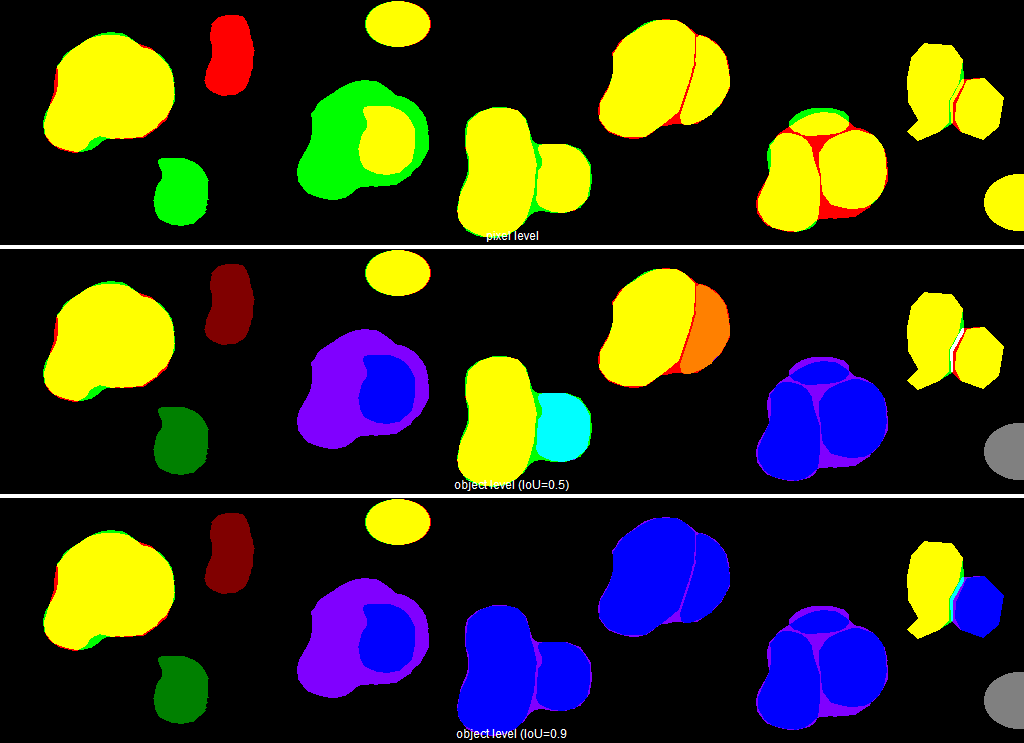
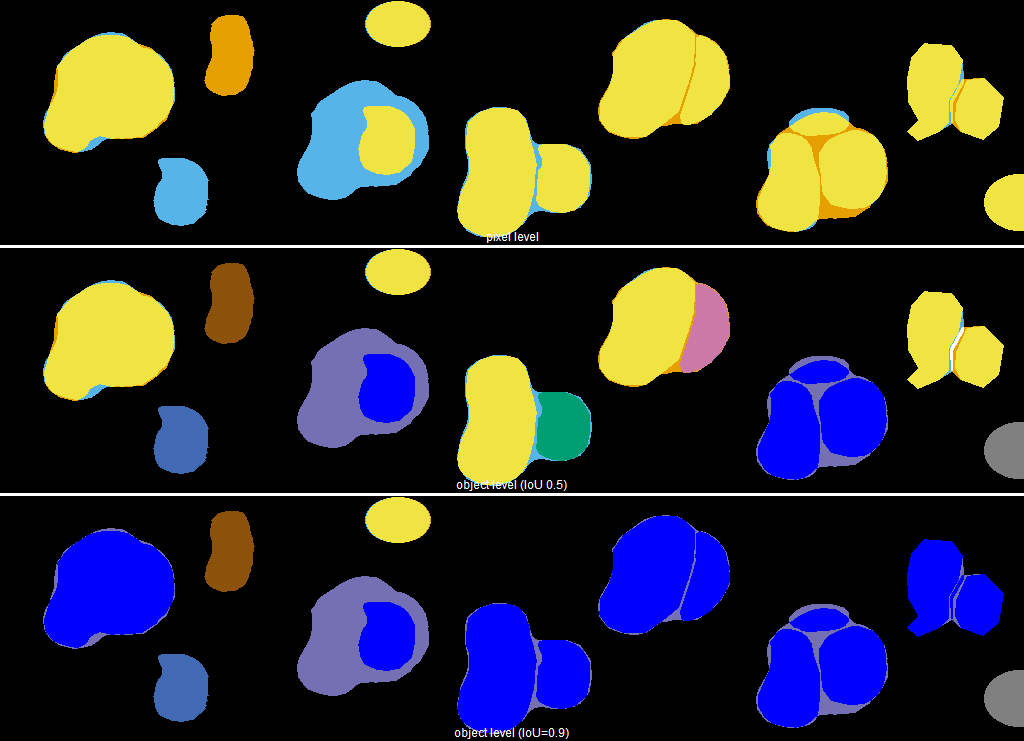
adapted output images with consideration for color-blind people

diff --git a/src/main/java/fr/curie/mic/IoUAnalysis.java b/src/main/java/fr/curie/mic/IoUAnalysis.java
@@ -217,10 +217,109 @@ public class IoUAnalysis {
 
         return new LUT(r, g, b);
     }
+    /**
+     * Builds a colorblind-friendly MiC Look-Up Table (LUT) for object-based
+     * comparison visualization.
+     *
+     * Maps label indices to RGB values representing the various relationships
+     * between ground truth and test objects.
+     *
+     * Color scheme:
+     * - TP (index 1): Yellow - true positive object validated by the IoU threshold.
+     * - TP_OVER (index 2): Orange - true positive where the test object is larger
+     *   than the corresponding ground truth object.
+     * - TP_UNDER (index 3): Light Blue - true positive where the test object is
+     *   smaller than the corresponding ground truth object.
+     * - FUSED (index 4): Magenta - false negative caused by the fusion of several
+     *   ground truth objects into a single test object.
+     * - SPLIT (index 5): Turquoise - false positive caused by the splitting of a
+     *   ground truth object into multiple test objects.
+     * - UNDER_IOU (index 6): Blue - overlapping region between corresponding
+     *   objects that do not satisfy the IoU threshold.
+     * - UNDER_IOU_EXT (index 7): Purple - non-overlapping region of corresponding
+     *   objects that do not satisfy the IoU threshold.
+     * - FP (index 8): Brown - false positive object present only in the test mask.
+     * - FN (index 9): Royal Blue - false negative object present only in the
+     *   ground truth mask.
+     * - NOT_ANALYZED (index 10): Grey - object excluded from analysis
+     *   (e.g. border or size filtering).
+     * - SECONDARY_OVERLAP (index 11): White - secondary overlap between already
+     *   validated object pairs.
+     *
+     * The palette uses warm colors for over-segmentation related errors and cool
+     * colors for under-segmentation related errors. Within each family, luminance
+     * reflects error severity, improving readability and accessibility for users
+     * with common forms of color vision deficiency.
+     *
+     * @return ImageJ LUT object for color mapping.
+     */
+    public static LUT getMiCLUT_colorblind() {
+        byte[] r = new byte[256];
+        byte[] g = new byte[256];
+        byte[] b = new byte[256];
+
+        // TP (yellow)
+        r[1] = (byte)240;
+        g[1] = (byte)228;
+        b[1] = (byte)66;
+
+        // TP_OVER (orange)
+        r[2] = (byte)230;
+        g[2] = (byte)159;
+        b[2] = (byte)0;
+
+        // TP_UNDER (light blue)
+        r[3] = (byte)86;
+        g[3] = (byte)180;
+        b[3] = (byte)233;
+
+        // FUSED / MERGE (magenta)
+        r[4] = (byte)204;
+        g[4] = (byte)121;
+        b[4] = (byte)167;
+
+        // SPLIT (turquoise)
+        r[5] = (byte)0;
+        g[5] = (byte)158;
+        b[5] = (byte)115;
+
+        // UNDER_IOU common area (blue)
+        r[6] = (byte)0;
+        g[6] = (byte)0;
+        b[6] = (byte)240;
+
+        // UNDER_IOU_EXT divergent area (purple)
+        r[7] = (byte)117;
+        g[7] = (byte)112;
+        b[7] = (byte)179;
+
+        // FP (brown)
+        r[8] = (byte)140;
+        g[8] = (byte)81;
+        b[8] = (byte)10;
+
+        // FN (royal blue)
+        r[9] = (byte)65;
+        g[9] = (byte)105;
+        b[9] = (byte)180;
+
+        // NOT_ANALYZED (grey)
+        r[10] = (byte)128;
+        g[10] = (byte)128;
+        b[10] = (byte)128;
+
+        // SECONDARY_OVERLAP (white)
+        r[11] = (byte)255;
+        g[11] = (byte)255;
+        b[11] = (byte)255;
+
+        return new LUT(r, g, b);
+    }
+
 
     /**
      * Returns the IoU matrix.
-     * 
+     *
      * @return ImageProcessor containing IoU values; iou[i][j] = IoU between truth object i and test object j
      */
     public ImageProcessor getIoU() {

diff --git a/src/main/java/fr/curie/mic/Mask_Instant_Comparator.java b/src/main/java/fr/curie/mic/Mask_Instant_Comparator.java
@@ -735,7 +735,7 @@ public class Mask_Instant_Comparator implements PlugIn {
 
     private void createCompositeStack() {
         IJ.log("create composite");
-        lutComposite = IoUAnalysis.getMiCLUT();
+        lutComposite = IoUAnalysis.getMiCLUT_colorblind();
 
         int nbIndexes = ((pixelObjectMethod) ? (int) Math.round((overlapMax - overlapMin) / overlapInc + 1) : 0);
         IJ.log("nbIndexes:" + nbIndexes);
@@ -873,23 +873,38 @@ public class Mask_Instant_Comparator implements PlugIn {
         }
     }
 
-
     private void addCompositePixels(ImagePlus imp, int index, int channel, int time, int slice) {
-        IJ.log("add composite from pixels");
         truthMaskIP.setPosition(channel + 1, slice, time + 1);
         testMaskIP.setPosition(channel + 1, slice, time + 1);
-        ByteProcessor truthMaskBinary = getMaskBinary(truthMaskIP);
-        ByteProcessor testMaskBinary = getMaskBinary(testMaskIP);
-        ColorProcessor col = new ColorProcessor(truthMaskIP.getWidth(), truthMaskIP.getHeight());
-        col.setChannel(1, testMaskBinary);
-        col.setChannel(2, truthMaskBinary);
-        ImagePlus rgb = new ImagePlus("rgb", col);
-        ImageConverter converter = new ImageConverter(rgb);
-        converter.convertRGBtoIndexedColor(256);
-        imp.getImageStack().getProcessor(imp.getStackIndex(index, slice, time +1)).copyBits(rgb.getProcessor(), 0, 0, Blitter.COPY);
+
+        ByteProcessor truth = getMaskBinary(truthMaskIP);
+        ByteProcessor test = getMaskBinary(testMaskIP);
+
+        ByteProcessor result = new ByteProcessor(truth.getWidth(), truth.getHeight());
+
+        for (int y = 0; y < truth.getHeight(); y++) {
+            for (int x = 0; x < truth.getWidth(); x++) {
+                boolean gt = truth.get(x, y) != 0;
+                boolean ts = test.get(x, y) != 0;
+
+                if (!gt && !ts) {
+                    result.set(x, y, 0);      // fond
+                } else if (gt && !ts) {
+                    result.set(x, y, 3);      // underestimated or FN (light blue)
+                } else if (!gt && ts) {
+                    result.set(x, y, 2);      // overestimated or FP (orange)
+                } else {
+                    result.set(x, y, 1);      // TP (yellow)
+                }
+            }
+        }
+
+        imp.getImageStack().getProcessor(imp.getStackIndex(index, slice, time + 1))
+                .copyBits(result, 0, 0, Blitter.COPY);
 
         CompositeImage ci = (CompositeImage) imp;
-        ci.setChannelLut(rgb.getProcessor().getLut(), index);
+        ci.setChannelLut(IoUAnalysis.getMiCLUT_colorblind(), index);
+
         imp.resetDisplayRange();
     }
 
@@ -1349,6 +1364,7 @@ public class Mask_Instant_Comparator implements PlugIn {
 
             if (compositeImage != null) {
                 for (ImagePlus ip : compositeImage) {
+                    if(ip.getNSlices()>1) ip.setSlice(2);
                     ip.show();
                 }
             }

diff --git a/src/main/java/fr/curie/mic/MaskInstantComparator3D.java b/src/main/java/fr/curie/mic/MaskInstantComparator3D.java
@@ -130,7 +130,7 @@ public class MaskInstantComparator3D implements PlugIn {
             pixelObjectResultsTable = new ResultsTable();
         }
 
-        if(showComposite) lutcomposite = IoUAnalysis.getMiCLUT();
+        if(showComposite) lutcomposite = IoUAnalysis.getMiCLUT_colorblind();
         analysis();
 
         resultsTable.show("Mask comparison results");
@@ -445,7 +445,7 @@ public class MaskInstantComparator3D implements PlugIn {
         int nFrames = originalTruth.getNFrames();
 
         if (lutcomposite == null) {
-            lutcomposite = IoUAnalysis.getMiCLUT();
+            lutcomposite = IoUAnalysis.getMiCLUT_colorblind();
         }
 
         for (int originalChannel = 1; originalChannel <= nOriginalChannels; originalChannel++) {

diff --git a/README.md b/README.md
@@ -93,28 +93,42 @@ Depending on the choice of parameters, the outputs consist of
 ![MiC, output image](ressources/MIC_output_image2.png)
 This stack of images is displayed when the option "Show composite images" is selected. The first slice is the pixel level superposition if the option "Pixel" is selected. The second is the Object level (IoU = 0.5) superposition if the option "Object (IoU=0.5)" is selected. The next slices correspond to object level  with varying IoU thresholds, when the corresponding option is selected. The IoU thresholds used are displayed in the slice label.
 
-The mask to test is superimposed to the ground truth with a color code
-##### for pixel level
- *  ![MiC, dialog window](ressources/green.png) **green** for GT (FN)
- * ![MiC, dialog window](ressources/red.png) **red** for mask (FP)
- * ![MiC, dialog window](ressources/yellow.png) **yellow** where the two masks overlaps (TP)
-  
-<BR>
+The mask to test is superimposed to the ground truth with a color code in an indexed color image (bellow the value of the index is given with the color code)
 
-##### for object level (the IoU threshold is displayed in the slice label)	
- 0. ![MiC, dialog window](ressources/black.png) **black**: pixels belonging to no object.
- 1. ![MiC, dialog window](ressources/yellow.png) **yellow** (TP): these are objects common to both masks (GT, test) and validated by the given IoU threshold. 
- 2. ![MiC, dialog window](ressources/red.png) **red** (TP): these are true positives with objects that are overestimated (larger in the test mask).
- 3. ![MiC, dialog window](ressources/green.png) **green** (TP): these are true positives with objects that are underestimated (smaller in the test mask).
- 4. ![MiC, dialog window](ressources/orange.png) **orange** (FN): These are false negatives corresponding to the merging (fusion) of objects in the GT mask into a single object in the test mask, one of whose objects is validated by the given IoU threshold. One of the objects in the GT mask will be yellow, while the others will be orange.
- 5. ![MiC, dialog window](ressources/cyan.png) **cyan** (FP): These are False positives where an object in the GT mask is split into multiple objects in the test mask. One object in the test mask will be yellow or cyan (depending on IoU validation), while others will be cyan.
- 6. ![MiC, dialog window](ressources/blue.png) **blue** (FP and FN): These are Objects common to both masks but not validated by the IoU threshold. The blue color covers the common area.
- 7. ![MiC, dialog window](ressources/purple.png) **purple** (FP or FN): These are Objects common to both masks but not validated by the IoU threshold. The purple color covers the diverging area.
- 8. ![MiC, dialog window](ressources/darkred.png) **dark red** (FP): These are false positives, test mask objects that do not match any object in GT mask.
- 9. ![MiC, dialog window](ressources/darkgreen.png) **dark green** (FN): these are false negatives, objects in the GT mask that don't match any object in test mask.
- 10. ![MiC, dialog window](ressources/grey.png) **grey**: these are objects eliminated with respect of distance to border parameter.
- 11. ![MiC, dialog window](ressources/white.png) **white**: these are objects already validated as true positives but with a secondary overlap with another object. The white color covers the overlapping area.
 
+##### Pixel level
+
+The test mask is superimposed on the ground truth mask.
+0. <span style="display:inline-block;width:12px;height:12px;background:#000000;border:1px solid #666;"></span> **black**: pixels belonging to background.
+1. <span style="display:inline-block;width:12px;height:12px;background:#F0E442;border:1px solid #666;"></span> **yellow**: overlapping pixels between the two masks (TP).
+2. <span style="display:inline-block;width:12px;height:12px;background:#E69F00;border:1px solid #666;"></span> **orange**: pixels present only in the test mask (FP).
+3. <span style="display:inline-block;width:12px;height:12px;background:#56B4E9;border:1px solid #666;"></span> **light blue**: pixels present only in the ground truth mask (FN).
+
+##### Object level
+
+0. <span style="display:inline-block;width:12px;height:12px;background:#000000;border:1px solid #666;"></span> **black**: pixels belonging to no object.
+
+1. <span style="display:inline-block;width:12px;height:12px;background:#F0E442;border:1px solid #666;"></span> **yellow** (**TP**): objects common to both masks and validated by the selected IoU threshold.
+
+2. <span style="display:inline-block;width:12px;height:12px;background:#E69F00;border:1px solid #666;"></span> **orange** (**TP_OVER**): true positives where the corresponding test object is larger than the ground truth object.
+
+3. <span style="display:inline-block;width:12px;height:12px;background:#56B4E9;border:1px solid #666;"></span> **light blue** (**TP_UNDER**): true positives where the corresponding test object is smaller than the ground truth object.
+
+4. <span style="display:inline-block;width:12px;height:12px;background:#CC79A7;border:1px solid #666;"></span> **magenta** (**FUSED / MERGE**): false negatives caused by the fusion of multiple ground truth objects into a single test object. One object may be validated as TP while the remaining merged objects are displayed in magenta.
+
+5. <span style="display:inline-block;width:12px;height:12px;background:#009E73;border:1px solid #666;"></span> **turquoise** (**SPLIT**): false positives caused by the splitting of one ground truth object into several test objects.
+
+6. <span style="display:inline-block;width:12px;height:12px;background:#0000F0;border:1px solid #666;"></span> **blue** (**UNDER_IOU**): overlapping area between corresponding objects that do not satisfy the selected IoU threshold.
+
+7. <span style="display:inline-block;width:12px;height:12px;background:#7570B3;border:1px solid #666;"></span> **purple** (**UNDER_IOU_EXT**): non-overlapping area between corresponding objects that do not satisfy the selected IoU threshold.
+
+8. <span style="display:inline-block;width:12px;height:12px;background:#8C510A;border:1px solid #666;"></span> **brown** (**FP**): false positive objects present only in the test mask.
+
+9. <span style="display:inline-block;width:12px;height:12px;background:#4169B4;border:1px solid #666;"></span> **royal blue** (**FN**): false negative objects present only in the ground truth mask.
+
+10. <span style="display:inline-block;width:12px;height:12px;background:#808080;border:1px solid #666;"></span> **grey** (**NOT_ANALYZED**): objects excluded from the analysis (e.g. border filtering or size filtering).
+
+11. <span style="display:inline-block;width:12px;height:12px;background:#FFFFFF;border:1px solid #666;"></span> **white** (**SECONDARY_OVERLAP**): overlap region between an already validated TP pair and an additional object.
     
 
 #### result window 1: Mask comparison results
